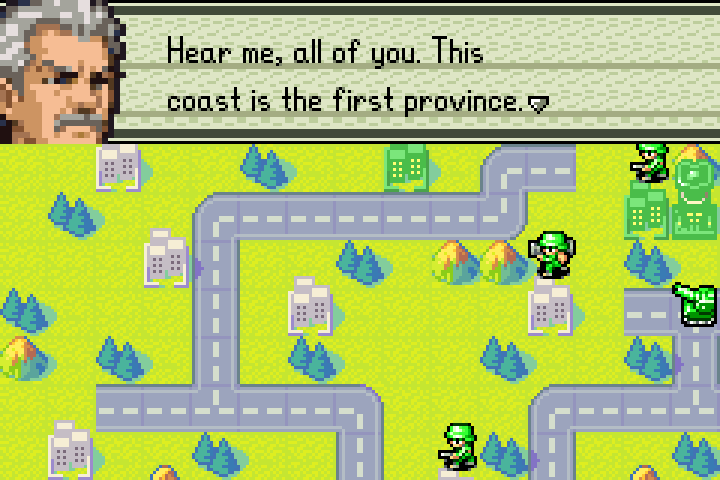
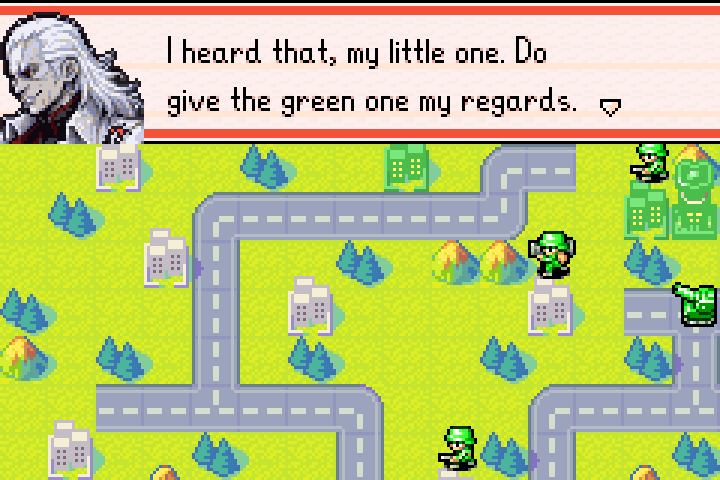
README pictures show Silver Nova: the Versus battle with the orb HQ and Caulder's briefing
aw2dev armyskin readme-pics regenerates the Versus picture; the story picture comes from the readme_pictures test.

Changed region(s): [[0.0, 0.0, 1.0, 0.375], [0.6111, 0.875, 0.6722, 0.9688]]

diff --git a/devkit/aw2/commands/armyskin.py b/devkit/aw2/commands/armyskin.py
@@ -5,6 +5,7 @@
                                                                       catalogue of army-coloured screens and fails on any left in the base army's colours
   armyskin matrix [--quick] [--armies 2 3] [--colours 5] [--no-ds]    the skin on every colour in every army count (2..5): the skins' rooms in free ROM, the panel, the build menu, a battle
   armyskin import-hq PICTURE [--write] [--sheet PNG] [--capture]                  import the user's HQ picture on its pixel grid (grass removed, nothing redrawn); --write puts its rows in the skin file
+  armyskin readme-pics [--out DIR]                                    regenerate the README's Silver Nova Versus picture (docs/screenshots/es-versus.png) from the current build (the story picture: AW2TEST_README_DIR=.. tools/aw2test/run.py -k readme_pictures)
   armyskin catalogue                                                  the screens (scenarios) and what each shows
   armyskin options --dir DIR [--letters ACF] [--awbw DIR]            a sheet of soldier options (candidate files A.toml ...) to choose from
   armyskin scenario NAME [--ids 6,2] [--ds] [--out DIR]              run one scenario's harness script and keep its shots (for sheets)
@@ -42,6 +43,9 @@ def register(sub):
     a.add_argument("--sheet", help="write the picture beside the imported pixels (PNG)")
     a.add_argument("--capture", action="store_true", help="also show the import at the capture box's size (32 x 64, drawn at half height) with its proportions against the map HQ's")
     a.set_defaults(fn=run_import_hq)
+    a = ps.add_parser("readme-pics", help="regenerate the README's Silver Nova Versus picture from the current build")
+    a.add_argument("--out", help="directory (default docs/screenshots)")
+    a.set_defaults(fn=run_readme_pics)
     a = ps.add_parser("palette-options", help="a comparison sheet of candidate palettes (DIR/A.toml ... fragments with a [colours] table) drawn by the real game")
     a.add_argument("--dir", required=True)
     a.add_argument("--letters", default="ABCDEF")
@@ -143,6 +147,20 @@ def run_palette_options(a):
         print("\n".join(l for l in rep if any(k in l for k in ("closest", "done greys", "fog", "chroma", "on colour"))))
     util.say("wrote", a.out)
     return 0
+
+
+def run_readme_pics(a):
+    """The Silver Nova army (Tabitha, the Dual Strike pack) beside Black Hole: the `units` scenario's HQ shot, 3x like the other README pictures."""
+    from PIL import Image
+    work = cfg.work("armyskin", "readme_pics")
+    work.mkdir(parents=True, exist_ok=True)
+    (work / "script.txt").write_text(scenarios.script("units", [6, 5], ds=True))
+    rc, _ = harness.run_script(work / "script.txt", work, ds=True)
+    out = Path(a.out) if a.out else cfg.REPO / "docs" / "screenshots"
+    im = Image.open(work / "hq_s0.bmp").convert("RGB")
+    im.resize((im.width * 3, im.height * 3), Image.NEAREST).save(out / "es-versus.png")
+    util.say("wrote", out / "es-versus.png")
+    return rc
 
 
 def run_check(a):

diff --git a/README.md b/README.md
@@ -10,7 +10,7 @@ No game is included: you need your own dump of the USA cartridge.
 <table>
 <tr>
 <td><img src="docs/screenshots/menu-title-tangoaw2.png" width="240" alt="The title screen with the tangoAW2 version badge (v0.8.9)"></td>
-<td><img src="docs/screenshots/es-campaign-story.png" width="240" alt="a briefing on the beach in the Silver Nova Campaign"></td>
+<td><img src="docs/screenshots/es-campaign-story.png" width="240" alt="Caulder briefing Tabitha and Lili in the Silver Nova Campaign"></td>
 <td><img src="docs/screenshots/es-versus.png" width="240" alt="A Versus battle: Silver Nova's chrome soldiers and orb-topped HQ against Black Hole"></td>
 </tr>
 <tr>
@@ -66,7 +66,7 @@ your army and kept in your settings).
   roulette draws one of the proposals. Every player picks their own army
   (CO, colour, team, partner) on **SELECT YOUR ARMY** and presses READY, and
   the host sets the rules (including battle animations, for everyone).
-- **Silver Nova**, a sixth army (a silver and blue-grey one with
+- **Silver Nova**, a sixth army (a silver metal one with
   masked soldiers and a tall HQ with a green orb), is a sixth choice next to the five armies'
   colours on SELECT YOUR ARMY, online and offline: any seat on any map can be
   Silver Nova, with any combination of the others. Its three COs
